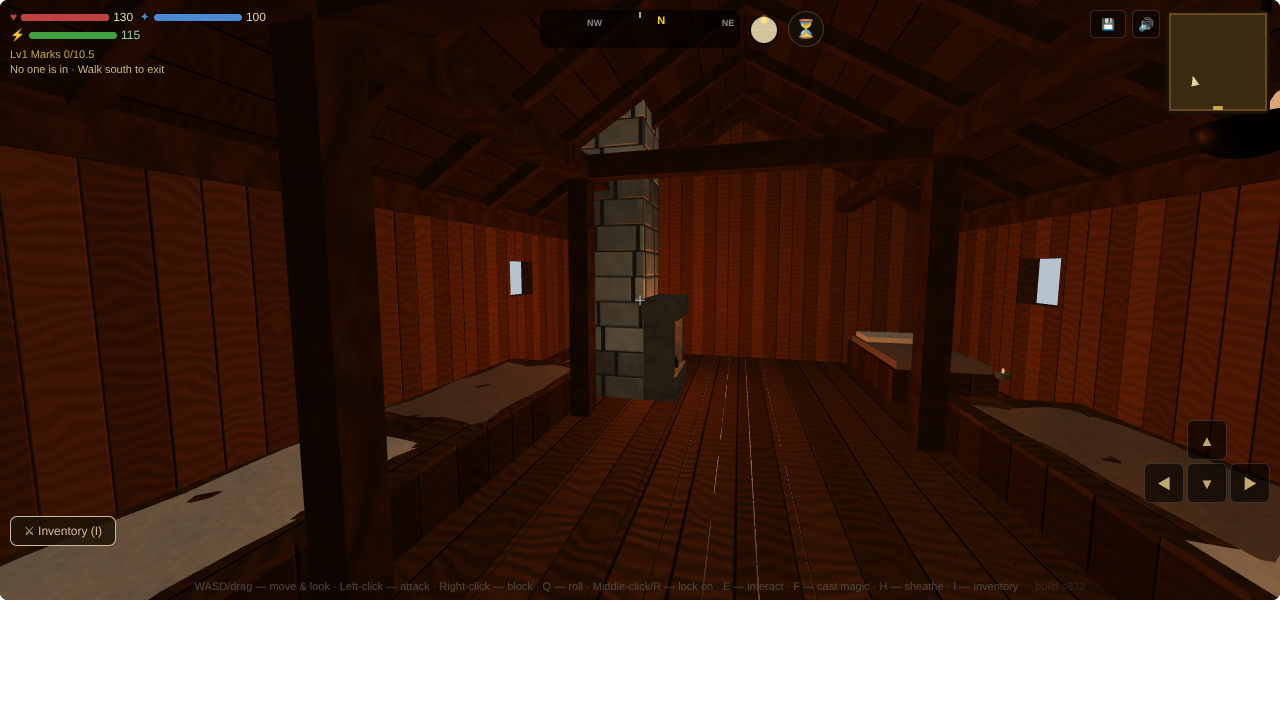
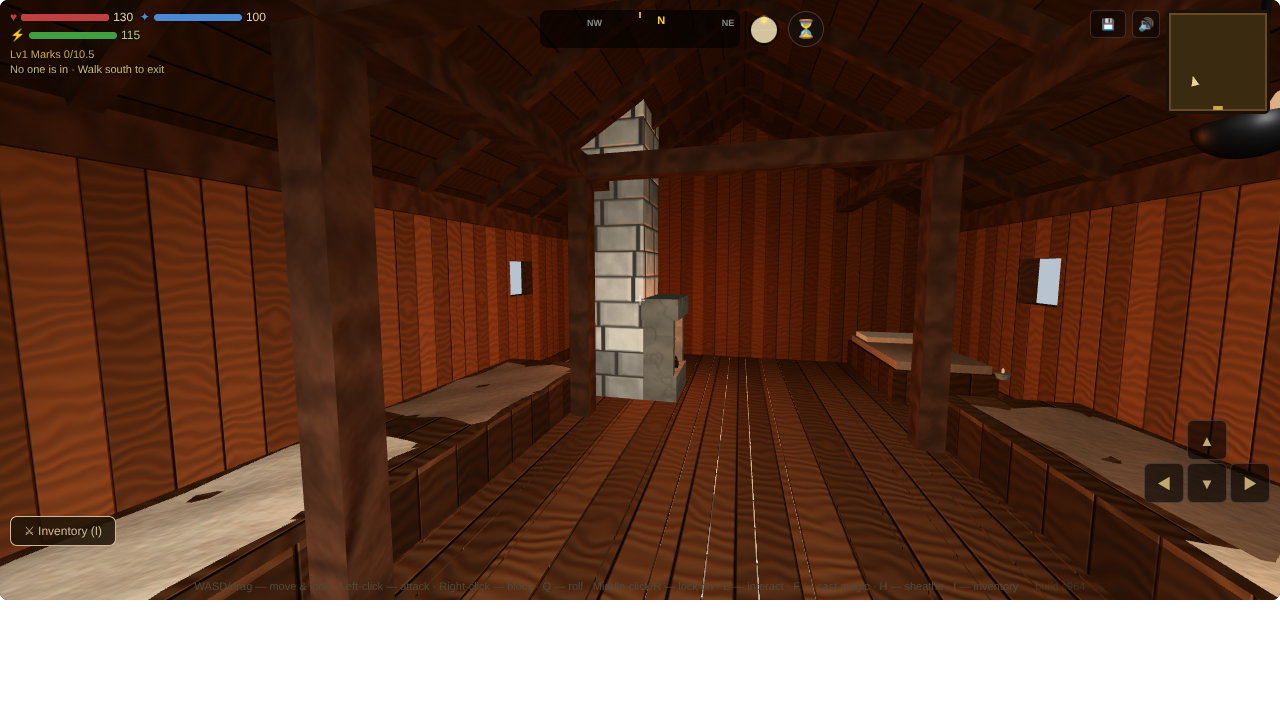
Session 1489: the day in through a room's openings, the longhouse and the barn (section I; #765 C)
Claude-Session: https://claude.ai/code/session_019eFMMofdsmNkgT2JYa3m6m

diff --git a/js/83-world-generator.js b/js/83-world-generator.js
@@ -1790,6 +1790,13 @@ function shellFrame(sc_,o){const {W,D,H,type,st,wallKind,FN,FSEED,beams,wins,TAL
   function kitRoomAir(sc_,amb){const hr=typeof gameHour==='function'?gameHour():12,dayK=hr>=7&&hr<18?1:hr>=5&&hr<20?.45:.08;
     sc_.add(new THREE.AmbientLight(0xffe2c4,(amb||.45)*.45));sc_.add(new THREE.HemisphereLight(0xdfe6f0,0xa89a84,.06+.4*dayK));
     return {day:dayK,lamp:.3+.7*(1-dayK),fire:.75};}
+  // S1489 (#765, Michael's C: the room lit from its own openings, fires and lamps; docs/prototypes/levelup/light.js's lightRoom) — the sky
+  // through each opening: a soft spot just inside it, aimed in and down, by the opening's area and the hour (none after dark). ops are
+  // in the room's frame: {x,y,z} the opening's middle, {nx,nz} the way into the room, w and h; K the room's own share (1 if not given)
+  const KD_SKY=2; /* the spot's strength a square metre of opening at noon: Dáire's hall (S1489) reads 37 at noon with it, 17 without */
+  function kitDaylight(sc_,ops,K){const hr=typeof gameHour==='function'?gameHour():12,k=(hr>=7&&hr<18?1:hr>=5&&hr<20?.4:0)*(K||1);if(!k)return [];
+    return ops.map(q=>{const s=new THREE.SpotLight(0xd4dcea,Math.min(6,KD_SKY*k*q.w*q.h),9,1.15,1,1);s.position.set(q.x+q.nx*.3,q.y,q.z+q.nz*.3);
+      s.target.position.set(q.x+q.nx*3.3,Math.max(0,q.y-1.6),q.z+q.nz*3.3);s.userData.daylight=true;sc_.add(s,s.target);return s;});}
   function buildKitTaproom(house){
     const T=PKIT.gl.inn({paint:house.kit.paint||'green',bays:house.kit.bays},PKIT.stream(house.id+':taproom')),I=T.inner,X=I.x1,Z=I.z1,F0=T.floors[0],F1=T.floors[1]-F0,W=2*X,D=2*Z;
     const rx=x=>x+X,rz=z=>z+Z,ry=y=>y-F0;
@@ -2136,6 +2143,11 @@ function shellFrame(sc_,o){const {W,D,H,type,st,wallKind,FN,FSEED,beams,wins,TAL
       for(const q of T.windows)out(q);for(const q of T.doors)out({...q,y:F0});
       const A=new Float32Array(P.reduce((n,a)=>n+a.length,0));let o=0;for(const a of P){A.set(a,o);o+=a.length;}
       const g=new THREE.BufferGeometry();g.setAttribute('position',new THREE.BufferAttribute(A,3));const m=new THREE.Mesh(g,M);m.userData.daylight=true;sc_.add(m);}
+    // and the day in through the big openings (S1489): both doorways on the yard and the pitching door, at 0.4 (the stable door's
+    // spot stands a metre from the partition's boards, which at the full share read 96 from the arrival); the slits, 0.16 m wide, light
+    // only themselves
+    kitDaylight(sc_,[...T.doors.map(q=>({...q,y:F0})),...T.windows].filter(q=>q.w*q.h>=.5).map(q=>{const f=q.face||'front',fb=f==='front'||f==='back';
+      return {x:fb?rx(q.x):f==='right'?W:0,y:ry(q.y+q.h*.7),z:fb?(f==='front'?D:0):rz(q.z||0),nx:fb?0:f==='right'?-1:1,nz:fb?(f==='front'?-1:1):0,w:q.w,h:q.h};}),.4);
     // the light: the three lanterns (the bay's and the stable's under the loft, the loft's from the collars) and the room's air
     const KA=kitRoomAir(sc_,.4);
     for(const p of T.lamps){const l=new THREE.PointLight(0xffaa44,1.0*KA.lamp,8);l.position.set(rx(p[0]),ry(p[1]),rz(p[2]));sc_.add(l);}
@@ -2294,6 +2306,8 @@ function shellFrame(sc_,o){const {W,D,H,type,st,wallKind,FN,FSEED,beams,wins,TAL
     {const hr=typeof gameHour==='function'?gameHour():12,day=hr>=7&&hr<18?0xc4d0dc:hr>=5&&hr<20?0x8a7a7a:0x0e1420,M=new THREE.MeshBasicMaterial({color:day});
       for(const z of T.windows)for(const sx of [-1,1]){const m=new THREE.Mesh(new THREE.PlaneGeometry(.7,.6),M);m.position.set(rx(sx*(T.w/2+.08)),ry(T.floor-.04+1.55),rz(z));m.rotation.y=-sx*Math.PI/2;m.userData.daylight=true;sc_.add(m);}
       const m=new THREE.Mesh(new THREE.PlaneGeometry(T.door.w+.1,T.door.h+.1),M);m.position.set(rx(T.door.x),T.door.h/2,rz(T.door.z)+.08);m.rotation.y=Math.PI;m.userData.daylight=true;sc_.add(m);}
+    // and the day in through them (S1489): a sky spot inside each window and the open door, the hall's one big opening
+    kitDaylight(sc_,[...T.windows.flatMap(z=>[-1,1].map(sx=>({x:rx(sx*X),y:1.55,z:rz(z),nx:-sx,nz:0,w:.6,h:.5}))),{x:rx(T.door.x),y:T.door.h*.7,z:D,nx:0,nz:-1,w:T.door.w,h:T.door.h}]);
     // the light: the fire (the long hearth or the peis), the iron lamp from the tie beam, the oil lamp by the bed, the hall's warmth. Abed
     // (23h to 5h) the house has put its lamps out but the little one by the bed, at a third, and banked the fire to 0.4 (S1441's rule).
     // The fire's embers and flames ride in a group of their own (the lamps' flames stay out of it), so a Mages' cold hearth (S676) shows

diff --git a/docs/devlog/1489.md b/docs/devlog/1489.md
@@ -1,0 +1,37 @@
+## v80 — Session 1489 — the day in through a room's openings: the longhouse and the barn (section I; #765 C)
+The second of section I's items for this lane from the critic's walk of 27 Oct: a Markish longhouse near black at noon (`c2_1_s7`,
+`g_c2_1_s7_16`, Dáire's House, the chimney hall: the frame's median 17, and *the two side windows light nothing past themselves*). The
+barn of Session 1488 had the same fault (27 at noon against the byre's 60).
+
+The rooms' daylight was a plane of the sky's colour outside each opening, lit by nothing, and the room's air (`kitRoomAir`'s ambient and
+hemisphere) by the hour; nothing came in through the opening. Michael's C on #765 (*the lights, with the eye half open*) lights a room
+from its own openings, fires and lamps, and the concept artist's `light.js` (`lightRoom`) lays the day in as a soft sky spot just inside
+each opening, aimed in and down, by the opening's area and the hour's sky. This session carries that one part of the rule into the game:
+
+- **`kitDaylight(sc_, ops, K)`** (`83-world-generator.js`, beside `kitRoomAir`): one `SpotLight` of the sky's colour 0.3 m inside each
+  opening, aimed 3 m in and 1.6 m down, of `KD_SKY` (2) × the opening's square metres × the hour (1 from 7 to 18h, 0.4 at dawn and dusk,
+  none after dark), at most 6; `K` is the room's own share. The lights carry `userData.daylight`.
+- **The longhouse** (`buildKitLonghouse`): a spot inside each side window (0.6 by 0.5 m, one pair every 4 m) and in the open front door,
+  so 5 or 7 spots.
+- **The barn** (`buildKitBarn`): the openings of half a square metre or more, which are both doorways on the yard and the pitching door,
+  at a share of 0.4. At the full share the stable door's spot, a metre from the partition's boards, read 96 from the arrival. The slits
+  (0.16 by 0.95 m) light only themselves: eight more lights would buy nothing you could see.
+
+The strength was chosen on Dáire's hall at noon. Without the spots it read 17, at 2 it reads 37 (the arrival frame's median, the
+critic's measure), at 3.5 it read 44 and at 6 it read 51. The prototype's longhouse reads 21 at noon under C (with its louver, door
+shut) and its cottage 65, so 37 is a hall plainly lit by day through its door that is still darker than a cottage. Nothing changes after dark: how far the eye opens at night (C's
+other half, `landPost`'s exposure stepped toward the frame's median) is owed, and is the larger part of #765.
+
+### Verified (headless Chromium)
+- Dáire's hall (`g_c2_1_s7_16`, the peis plan) from the arrival: 17 → 37 at noon; 23h unchanged (2 to 6 across runs, the fire's
+  flicker; no spot after dark, 22 lights against 27 at noon). `docs/prototypes/kit-longhouse-noon.png`.
+- Eoin's Barn from the arrival (Session 1488's facing): 27 → 57 at noon, against the byre's 60. `docs/prototypes/kit-barn-arrive-day.png`.
+- `kitlonghouse` 1/1, one check new for each of the three plans: at noon the day comes in through every window and the door (7 spots
+  in the parted hall, 5 in the one-room and the peis halls). The lamp count now leaves the daylight out (4 lights each, as before).
+- `kitfarmhouse` 1/1, one check new: the barn has 3 sky spots (both doorways, the pitching door) and still its three lanterns. The
+  suites' pictures of the barn's bay and the longhouse's peis are re-taken with the day in them.
+### Needs eyes
+- Whether 37 reads right for a Markish hall at noon, set against the prototype's *shut and fire-lit*. `KD_SKY` is the one number.
+- The other kit rooms (the cottage, the farmhouse, the townhouse, the Aurenne houses, the taverns) still light by hand. Each takes one
+  `kitDaylight` line from its own record; their noon frames should be measured before and after, room by room.
+- Up to 7 spot lights more in a longhouse: no frame rate on software GL.

diff --git a/docs/backlog.md b/docs/backlog.md
@@ -433,7 +433,7 @@ The blocky look is inherited, not chosen: ~790 `BoxGeometry` and ~520 cylinders/
 - ~~**The arms through the cloak in the walk** (Michael's condition on #274's A, 13 Oct 2026: "as long as this doesn't have the arms phasing through the clothing"; checked at rest since Session 823, never through the walk)~~ — done, Session 1434: on the new look the cloak rides the pelvis and the driver's walk swung the arms it covers 0.13–0.26 m out through it; they are now held in to the hips as the gait comes in (`hbCloakArms`, `HB_CLOAK_HOLD`), and `f4people` checks it. Your own body, Session 1435: each arm held while it is on the gait's swing or at rest, the walk's lean taken off under a cloak (`TP.hbHold`), and `f10motion` checks it.
 - ~~**The village farm's barn arrives facing a post, and is near black at noon** (build s959, critic 27 Oct; for the look builder): Salthaven, `g_salthaven_5002` (Eoin's Barn) at 12h, enter from its door. A dark post stands dead centre about 1 m from the eye, with a stall's partition across the lower right. The frame's median is 21 at noon and 23 at 23h, against the byre's 60 and 44 next door. Turn the arrival, or set it off the post, toward the arch's daylight that S1475's own picture shows. `docs/critic/2026-10-27-game-barn-12h.png`.~~ — done, Session 1488 (you face down the passage to the partition's doorway, 6.05 m clear; the frame 27 against 21; the day through the openings is #765's, next)
 - **`corpsebody` red on main: the Cave Bear is searchable from only part of its body** (systems builder, Session 1486; for QA, then the bodies builder if it is the kit's body): 153 of 195 rays on the body find it (the check wants all), on main at s962 (`--src` of `git archive origin/main`), and 151–152/194–195 on `auto/systems-1486` in two runs of three; the Bandit, Wolf, Cave Troll and Golem rows pass. The Cave Bear wears the creature kit's body (`HC_KINDS`, `own:true`), now built a step at a time since S1484, so the dead body's bones may no longer be the shape the rays are tested against.
-- **A Markish longhouse is near black at noon** (build s959, critic 27 Oct; for the look builder): c2_1_s7, `g_c2_1_s7_16` (Dáire's House, the chimney hall) at 12h. The frame's median is 17, darker than the prototype's longhouse at night under #765's A (33). The two side windows light nothing past themselves. At 23h it is 6, against the cottage's 42. The night belongs to #765; noon does not. `docs/critic/2026-10-27-game-longhouse-12h.png`.
+- ~~**A Markish longhouse is near black at noon** (build s959, critic 27 Oct; for the look builder): c2_1_s7, `g_c2_1_s7_16` (Dáire's House, the chimney hall) at 12h. The frame's median is 17, darker than the prototype's longhouse at night under #765's A (33). The two side windows light nothing past themselves. At 23h it is 6, against the cottage's 42. The night belongs to #765; noon does not. `docs/critic/2026-10-27-game-longhouse-12h.png`.~~ — done, Session 1489 (a sky spot inside each window and the door, #765 C's openings: 17 → 37 at noon; the barn 27 → 57; the night's eye is owed)
 
 ## J. Design proposals wanted (Michael, 27 Sep 2026)
 Michael wants to hear proposals from the team before anything is built. Each proposal is a page in `docs/design/<topic>.md`: the problem in his words, 2–3 directions with a recommendation, what it displaces, cost in sessions. Nothing here is a spec until it carries a `Michael:` line in docs/decisions.md. His brief is `docs/design_brief.md`.
